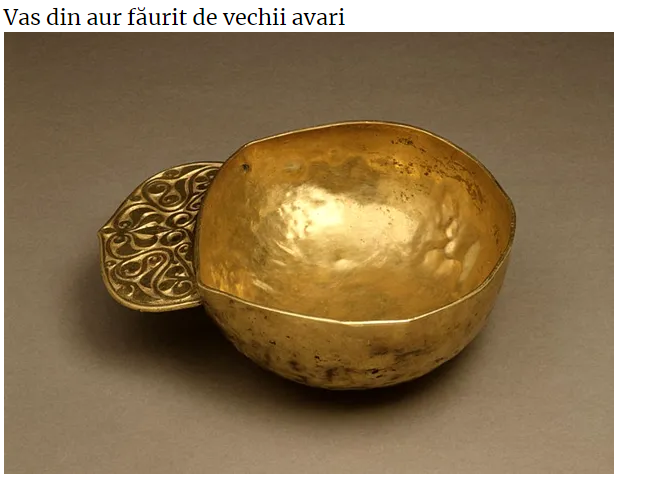
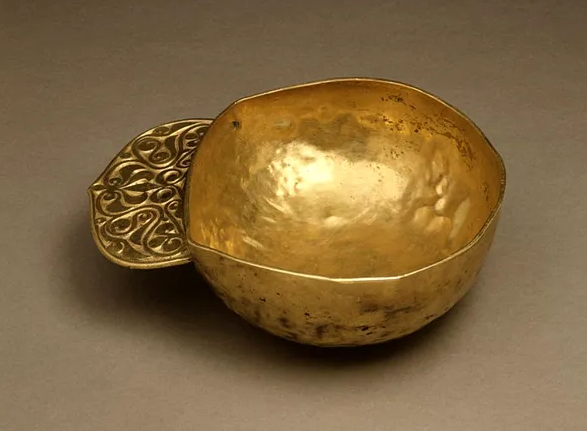
x

diff --git a/index.html b/index.html
@@ -99,10 +99,10 @@
         </div>
 
 
-        <div class="picture picture-box-pietroasele"></div>
-        <div class="picture picture-box-closca"></div>
-        <div class="picture picture-box-tesaurul"></div>
-        <div class="picture picture-box-reproducerile"></div>
+        <div class="picture picture-box-pietroasele"><img src="photos/pietroasele.jpg"></img></div>
+        <div class="picture picture-box-closca"><img src="photos/closca2_auto_x2.jpg"></img></div>
+        <div class="picture picture-box-tesaurul"><img src="photos/tesaurul.png"></img></div>
+        <div class="picture picture-box-reproducerile"><img src="photos/reproducerile.png"></img></div>
 
     </div>
     </div>
@@ -146,7 +146,7 @@
             În urma acestor tulburări, gepizii ajung stăpânii Daciei.
         </div>
 
-        <div class="picture picture-box-huni"></div>
+        <div class="picture picture-box-huni"><img src="photos/huni.png"></img></div>
     </div>
 
     <div class="sectiune gepizi">
@@ -187,9 +187,9 @@
              ornate cu pietre semipreţioase, dar şi o oglindă şi un pieptene de os.
         </div>
 
-        <div class="picture picture-box-gepida"></div>
-        <div class="picture picture-box-ornament"></div>
-        <div class="picture picture-box-ornament2"></div>
+        <div class="picture picture-box-gepida"><img src="photos/printesagepida.png"></img></div>
+        <div class="picture picture-box-ornament"><img src="photos/ornament1.png"></img></div>
+        <div class="picture picture-box-ornament2"><img src="photos/ornament2.png"></img></div>
     </div>
 
     <div class="sectiune avari">
@@ -222,8 +222,8 @@
              Restul poporului avar a fost distrus în luptele duse cu bulgarii conduşi de Krum (804-814) şi a dispărut din istorie.
         </div>
 
-        <div class="picture picture-box-avari-vas"></div>
-        <div class="picture picture-box-avari-tezaur"></div>
+        <div class="picture picture-box-avari-vas"><img src="photos/avari1.png"></img></div>
+        <div class="picture picture-box-avari-tezaur"><img src="photos/avari2.png"></img></div>
     </div>
 
     <div class="sectiune slavi">
@@ -251,8 +251,8 @@
             În timp ce slavii stabiliți la sud de Dunăre au asimilat celelalte grupuri etnice existente (traci, iliri, celți, sciți), slavii de la nordul Dunării au fost asimilați între secolele VIII-X de daco-romani,
              aceasta fiind ultima etapă în finalizarea etnogenezei românești.
         </div>
-        <div class="picture picture-box-slavi1"></div>
-        <div class="picture picture-box-slavi2"></div>
+        <div class="picture picture-box-slavi1"><img src="photos/slavi1.png"></img></div>
+        <div class="picture picture-box-slavi2"><img src="photos/slavi2.png"></img></div>
 
     </div>
 
@@ -294,8 +294,8 @@
             Cucerirea Transilvaniei de către unguri s-a prelungit până către finalul secolului al XII-lea.
         </div>
 
-        <div class="picture picture-box-unguri1"></div>
-        <div class="picture picture-box-unguri2"></div>
+        <div class="picture picture-box-unguri1"><img src="photos/unguri1.png"></img></div>
+        <div class="picture picture-box-unguri2"><img src="photos/unguri2.png"></img></div>
     </div>
 
     <div class="sectiune cumani">
@@ -323,7 +323,7 @@
             Cumanii și pecenegii par a fi conviețuit în simbioză pașnică cu populatia româna, mulți din ei liberi și posesori de diplome nobiliare în Țara Făgărașului. 
             În timp, au fost asimilați de populația ungară și română din zonă. 
         </div>
-        <div class="picture picture-box-cumani"></div>
+        <div class="picture picture-box-cumani"><img src="photos/cumani.png"></img></div>
 
     </div>
 
@@ -348,9 +348,9 @@
              în județele Brașov și Covasna. Cel mai important dintre aceste toponime este chiar Brașov. Deși sufixul este slav, ceea ce a condus la presupunerea
               că denumirea ar fi slavă, s-a putut demonstra că Brasso, devenit apoi Brașov, provine din termenul turcic Barasu, care înseamnă „apă albă”. 
         </div>
-        <div class="picture picture-box-pecenegi"></div>
-        <div class="picture picture-box-pecenegi2"></div>
-        <div class="picture picture-box-pecenegi3"></div>
+        <div class="picture picture-box-pecenegi"><img src="photos/pecenegi1.png"></img></div>
+        <div class="picture picture-box-pecenegi2"><img src="photos/pecenegi2.png"></img></div>
+        <div class="picture picture-box-pecenegi3"><img src="photos/pecenegi3.png"></img></div>
     </div>
 
     <div class="sectiune mongoli">
@@ -389,8 +389,8 @@
             </div>
         
 
-        <div class="picture picture-box-mongoli1"></div>
-        <div class="picture picture-box-mongoli2"></div>
+        <div class="picture picture-box-mongoli1"><img src="photos/mongoli1.png"></img></div>
+        <div class="picture picture-box-mongoli2"><img src="photos/mongoli2.png"></img></div>
         
     </div>
 
@@ -440,7 +440,7 @@
               Tătarii sunt principalii reprezentați ai islamului în România. (Wikipedia)
         </div>
 
-        <div class="picture picture-box-tatari"></div>
+        <div class="picture picture-box-tatari"><img src="photos/tatari.png"></img></div>
 
     </div>
 
@@ -448,10 +448,40 @@
         <div class="title">
             Țara Românească a existat între secolele al XIV-lea și secolul al XIX-lea timp de mai bine de 500 de ani, ea începându-și existența ca stat independent
              odată cu Bătălia de la Posada în jur de 10 noiembrie 1330, și încheindu-și existența ca stat (devenit autonom dar tributar Imperiului Otoman).
-            bibliografie
         </div>
     </div>
 
+    <div class="intro">
+        <div class="title" id="bibliografie-titlu">
+            Bibliografie
+        </div>
+        <div class="bibliografie">
+            Wikipedia <br/>
+            https://enciclopediaromaniei.ro/wiki/Huni<br/>
+            https://www.independentaromana.ro/popoarele-migratoare-pe-teritoriul-romaniei-hunii/<br/>
+            https://hartacomorii.blogspot.com/2014/07/comoara-printesei-gepide-de-la-turda.html<br/>
+            https://inturda.ro/2014/02/24/franziska-muzeu-istorie-turda/<br/>
+            https://enciclopediaromaniei.ro/wiki/Avari<br/>
+            https://www.descopera.ro/cultura/11760920-avarii-cine-sunt-ei-si-cum-ne-au-influentat-istoria<br/>
+            https://politeia.org.ro/magazin-istoric/barbarii-7-avarii/10529/<br/>
+            https://www.independentaromana.ro/popoarele-migratoare-pe-teritoriul-romaniei-slavii/<br/>
+            https://ro.historylapse.org/migratorii-slavi-etnogeneza-romaneasca<br/>
+            https://www.independentaromana.ro/popoare-migratoare-pe-teritoriul-romaniei-ungurii/<br/>
+            https://enciclopediaromaniei.ro/wiki/Cumani<br/>
+            https://www.independentaromana.ro/cumanii-popoare-migratoare-pe-teritoriul-romaniei/<br/>
+            https://historia.ro/sectiune/general/romani-pecenegi-cumani-si-mongoli-sec-xi-xiv-569898.html<br/>
+            http://enciclopediaromaniei.ro/wiki/T%C4%83tari<br/>
+            https://adevarul.ro/stiri-locale/botosani/care-a-fost-originea-tatarilor-razboinicii-au-2019126.html
+        </div>
+    </div>
+
+    <!--Aici facem portiunea de sus; va contine culoarea de fill+anul-->
+    <div class="period">
+       
+        <div id="fill-color"></div>
+        <div id="year"></div>
+
+    </div>
     
     <script src="code.js"></script>
 </body>

diff --git a/style.css b/style.css
@@ -8,6 +8,41 @@ body {
     
 }
 
+
+.period {
+    position:fixed;
+    width:100vw;
+    height:5vh;
+    background-color: blue;
+    top:0;
+    left:0;
+}
+#fill-color {
+    position:fixed;
+    background-color: aliceblue;
+    height:5vh;
+    top:0;
+    left:0vw;
+
+   width: calc(var(--scroll)*100vw);
+
+}
+#year {
+    left:0;
+    top:0;
+    position: relative;
+    color:white;
+    font-size: 4vh;
+}
+#year::after {
+    
+    content:var(--scroll);
+}
+
+
+/*poate schimb display in fctie de ala? sau pun un minus la calc...*/
+
+
 .title-sectiune {
     font-size: 10vh;
     left:50%;
@@ -18,19 +53,28 @@ body {
     padding-right:2vw;
     
 }
-
+img {
+    position: relative;
+    object-fit: fill;
+    align-self: center;
+    width: 80%;
+    border-radius:10px;
+    
+    
+}
 .picture {
     border-radius:10px;
     position: relative;
-    width: 84%;
+    width: 100%;
+    display:flex;
+   
+   
     margin:2vw;
     padding-top:2vh;
     padding-bottom:2vh;
     padding-right:2vw;
     padding-left:2vw;
-    background-size: cover;
-    height: 40vh;
-    background-position-y: center;
+
 }
 
 
@@ -80,13 +124,21 @@ body {
     font-size:10vh;
     top:50%; left:50%; 
     transform: translate(-50%, -50%);
-    
+    text-align: center;
     
 }
-
+#bibliografie-titlu {
+    top:5%;
+}
+.bibliogafie {
+    position: relative;
+    font-size:5vh;
+    text-align: center;
+    display: grid;
+}
 
 .subtitle {
-    position:absolute;
+    position:relative;
 
     font-size:5vh;
     width:25vw;
@@ -100,97 +152,4 @@ section {
     background-color: aliceblue;
 }
 
-
-.picture-box-pietroasele {
-    background-image:url(photos/pietroasele.jpg);
-}
-
-.picture-box-closca {
-    background-image:url(photos/closca2.png);
-}
-
-.picture-box-tesaurul {
-    background-image:url(photos/tesaurul.png);
-
-}
-
-.picture-box-reproducerile {
-    background-image:url(photos/reproducerile.png);
-}
-
-.picture-box-huni {
-    background-image:url(photos/huni.png);
-}
-
-.picture-box-gepida {
-    background-image:url(photos/printesagepida.png);
-}
-
-.picture-box-ornament {
-    background-image:url(photos/ornament1.png);
-}
-.picture-box-ornament2 {
-    background-image:url(photos/ornament2.png);
-}
-
-
-.picture-box-avari-vas {
-    background-image:url(photos/avari1.png);
-}
-
-.picture-box-avari-tezaur {
-    background-image:url(photos/avari2.png);
-
-}
-
-.picture-box-slavi1 {
-    background-image:url(photos/avari2.png);
-}
-
-.picture-box-slavi2 {
-    background-image:url(photos/slavi2.png);
-}
-
-.picture-box-unguri1 {
-    background-image:url(photos/unguri1.png);
-}
-.picture-box-unguri2 {
-    background-image:url(photos/unguri2.png);
-
-}
-
-.picture-box-cumani {
-    background-image:url(photos/cumani.png);
-}
-
-.picture-box-pecenegi {
-    background-image:url(photos/pecenegi1.png);
-
-    
-}
-
-.picture-box-pecenegi2 {
-    background-image:url(photos/pecenegi2.png);
-
-}
-
-.picture-box-pecenegi3 {
-    background-image:url(photos/pecenegi3.png);
-
-}
-
-.picture-box-mongoli1 {
-    background-image:url(photos/mongoli1.png);
-
-}
-
-.picture-box-mongoli2 {
-    background-image:url(photos/mongoli2.png);
-
-}
-
-.picture-box-tatari {
-    background-image:url(photos/tatari.png);
-
-}
 

diff --git a/code.js b/code.js
@@ -1,14 +1,21 @@
-document.body.style.scrollbarFaceColor="red"
-document.body.style.scrollbarArrowColor="blue"
-document.body.style.scrollbarTrackColor="orange"
-document.body.style.scrollbarShadowColor="black"
-document.body.style.scrollbarHighlightColor="brown"
-document.body.style.scrollbar3dlightColor="green"
-document.body.style.scrollbarDarkshadowColor="orange"
 
 
+//NVM fac mai multe doar ca cu marimi diferite...
+window.addEventListener('scroll', () => {
+    document.body.style.setProperty('--scroll', window.pageYOffset / (document.body.offsetHeight - window.innerHeight));
+    document.getElementById('year').textContent="Anul " + Math.round((window.pageYOffset / (document.body.offsetHeight - window.innerHeight)*500+300));
+    if(window.pageYOffset / (document.body.offsetHeight - window.innerHeight)<0.3) {
+        document.body.style.setProperty('--my-var', 100);
+        document.getElementById('fill-color').style.backgroundColor="red";
+    }
+    if(window.pageYOffset / (document.body.offsetHeight - window.innerHeight)>0.3) {
+        document.body.style.setProperty('--my-var', 200);
+        document.getElementById('fill-color').style.backgroundColor="orange";
 
-
+    }
+    //Deci ce vreau; sa creasca pana cand o valoare ajunge la capat, apoi din nou zeo, apoi val. iara creste...
+    
+  }, false);
 
 
 
